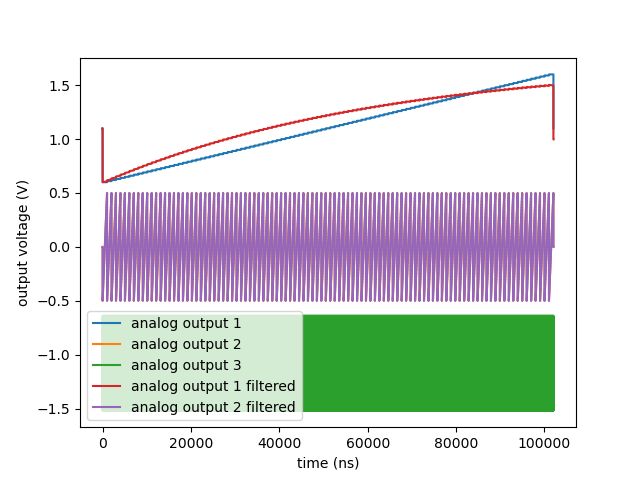
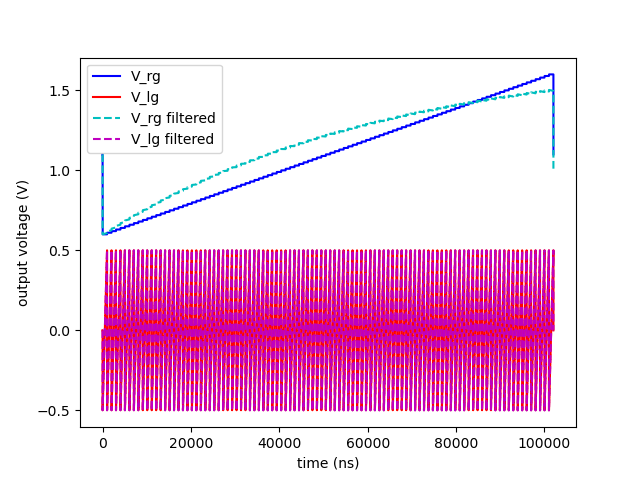
Improved comparison w/wo filter

diff --git a/Quantum-Control-Applications/Quantum-Dots/Use Case 1 - Fast 2D Scans/compare_scans.py b/Quantum-Control-Applications/Quantum-Dots/Use Case 1 - Fast 2D Scans/compare_scans.py
@@ -33,23 +33,20 @@ if N < 10:
 # Derive output voltages without and with high pass filtering
 output_1 = np.full(shape=(N**2 + 2, measurement_time), fill_value=0.0)
 output_2 = np.full(shape=(N**2 + 2, measurement_time), fill_value=0.0)
-output_3 = np.full(shape=(N**2 + 2, measurement_time), fill_value=0.0)
 
 for i, values in enumerate(X):
     for j, num in enumerate(values):
         output_1[num + 1, :] = np.full(measurement_time, fill_value=(i - (N - 1) / 2) / (N - 1))
         output_2[num + 1, :] = np.full(measurement_time, fill_value=(j - (N - 1) / 2) / (N - 1))
-        output_3[num + 1, :] = np.concatenate([np.zeros(200), np.sin(np.linspace(0, 50, 600)) / 2, np.zeros(200)])
 if N < 10:
     plt.subplot(122)
 
-plt.plot(output_1.flatten()[::100] + 1.1, label="analog output 1")
-plt.plot(output_2.flatten()[::100], label="analog output 2")
-plt.plot(output_3.flatten()[::100] - 1.1, label="analog output 3")
+plt.plot(output_1.flatten()[::100] + 1.1, 'b', label="V_rg")
+plt.plot(output_2.flatten()[::100], 'r', label="V_lg")
 output_1_filter = high_pass(output_1.flatten(), tau_biasT)
 output_2_filter = high_pass(output_2.flatten(), tau_biasT)
-plt.plot(output_1_filter.flatten()[::100] + 1.1, label="analog output 1 filtered")
-plt.plot(output_2_filter.flatten()[::100], label="analog output 2 filtered")
+plt.plot(output_1_filter.flatten()[::100] + 1.1, 'c--', label="V_rg filtered")
+plt.plot(output_2_filter.flatten()[::100], 'm--', label="V_lg filtered")
 
 plt.xlabel("time (ns)")
 plt.ylabel("output voltage (V)")
@@ -105,23 +102,20 @@ if N < 10:
 # Derive output voltages without and with high pass filtering
 output_1 = np.full(shape=(N**2 + 1, measurement_time), fill_value=0.0)
 output_2 = np.full(shape=(N**2 + 1, measurement_time), fill_value=0.0)
-output_3 = np.full(shape=(N**2 + 1, measurement_time), fill_value=0.0)
 
 for i, values in enumerate(order):
     for j, num in enumerate(values):
         output_1[num, :] = np.full(measurement_time, fill_value=(i - (N - 1) / 2) / (N - 1))
         output_2[num, :] = np.full(measurement_time, fill_value=(j - (N - 1) / 2) / (N - 1))
-        output_3[num, :] = np.concatenate([np.zeros(200), np.sin(np.linspace(0, 50, 600)) / 2, np.zeros(200)])
 
 if N < 10:
     plt.subplot(122)
-plt.plot(output_1.flatten()[::100] + 1.1, label="analog output 1")
-plt.plot(output_2.flatten()[::100], label="analog output 2")
-plt.plot(output_3.flatten()[::100] - 1.1, label="analog output 3")
+plt.plot(output_1.flatten()[::100] + 1.1, 'b', label="V_rg")
+plt.plot(output_2.flatten()[::100], 'r', label="V_lg")
 output_1_filter = high_pass(output_1.flatten(), tau_biasT)
 output_2_filter = high_pass(output_2.flatten(), tau_biasT)
-plt.plot(output_1_filter.flatten()[::100] + 1.1, label="analog output 1 filtered")
-plt.plot(output_2_filter.flatten()[::100], label="analog output 2 filtered")
+plt.plot(output_1_filter.flatten()[::100] + 1.1, 'c--', label="V_rg filtered")
+plt.plot(output_2_filter.flatten()[::100], 'm--', label="V_lg filtered")
 plt.xlabel("time (ns)")
 plt.ylabel("output voltage (V)")
 plt.legend()
@@ -208,22 +202,19 @@ if N < 10:
 # Derive output voltages without and with high pass filtering
 output_1 = np.full(shape=(N**2 + 1, measurement_time), fill_value=0.0)
 output_2 = np.full(shape=(N**2 + 1, measurement_time), fill_value=0.0)
-output_3 = np.full(shape=(N**2 + 1, measurement_time), fill_value=0.0)
 
 for i, values in enumerate(order):
     for j, num in enumerate(values):
         output_1[num, :] = np.full(measurement_time, fill_value=(i - (N - 1) / 2) / (N - 1))
         output_2[num, :] = np.full(measurement_time, fill_value=(j - (N - 1) / 2) / (N - 1))
-        output_3[num, :] = np.concatenate([np.zeros(200), np.sin(np.linspace(0, 50, 600)) / 2, np.zeros(200)])
 if N < 10:
     plt.subplot(122)
-plt.plot(output_1.flatten()[::100] + 1.1, label="analog output 1")
-plt.plot(output_2.flatten()[::100], label="analog output 2")
-plt.plot(output_3.flatten()[::100] - 1.1, label="analog output 3")
+plt.plot(output_1.flatten()[::100] + 1.1, 'b', label="V_rg")
+plt.plot(output_2.flatten()[::100], 'r', label="V_lg")
 output_1_filter = high_pass(output_1.flatten(), tau_biasT)
 output_2_filter = high_pass(output_2.flatten(), tau_biasT)
-plt.plot(output_1_filter.flatten()[::100] + 1.1, label="analog output 1 filtered")
-plt.plot(output_2_filter.flatten()[::100], label="analog output 2 filtered")
+plt.plot(output_1_filter.flatten()[::100] + 1.1, 'c--', label="V_rg filtered")
+plt.plot(output_2_filter.flatten()[::100], 'm--', label="V_lg filtered")
 plt.xlabel("time (ns)")
 plt.ylabel("output voltage (V)")
 plt.legend()

diff --git a/Quantum-Control-Applications/Quantum-Dots/Use Case 1 - Fast 2D Scans/README.md b/Quantum-Control-Applications/Quantum-Dots/Use Case 1 - Fast 2D Scans/README.md
@@ -89,7 +89,13 @@ For a scan of $N \times N$  pixels where time $\tau$ is spent at each pixel, the
 pattern is $f=1/(2N\tau)$ whereas for a Raster scan it was $f=1/(N^2\tau)$.
 
 Thus allowing much greater resolutions and/or time spent at each pixel before the high pass filtering effect becomes an issue. 
-Shown below is the effect of a high pass filter with a time constant of 200µs on the waveforms needed to create 101x101 raster and spiral scans with a measurement time of 1us. 
+Shown below is the effect of a high pass filter with a time constant of 200µs (5 kHz) on the waveforms needed to create 
+101x101 raster and spiral scans with a total measurement time of 1us.
+For the raster scan, the effect of high pass filtering is clearly visible on the "slow" gate voltage performing the sweep along the rows.
+The mean difference between the filtered (dashed lines) and non-filtered (plain lines) data is about 8%.
+On the other hand, the fast voltage change rate and the interplay between positive and negative values make the spiral 
+scan much more robust against the bias-tee high pass filtering. 
+The mean difference between the filtered (dashed lines) and non-filtered (plain lines) data is reduced to 0.2%.
 
 
 | <img src="./_images/raster_wo_w_filter.png" alt="raster_wo_w_filter" style="zoom: 67%;" /> | <img src="./_images/spiral_wo_w_filter.png" alt="spiral_wo_w_filter" style="zoom: 67%;" /> |
